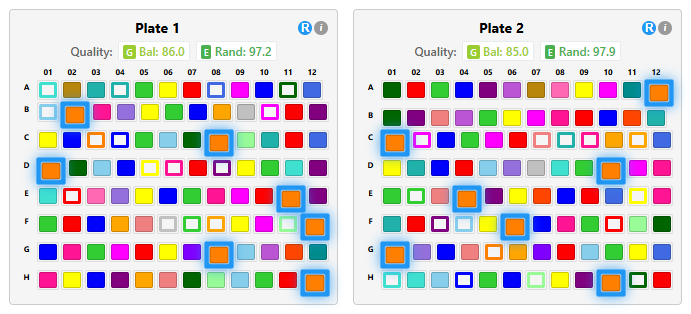
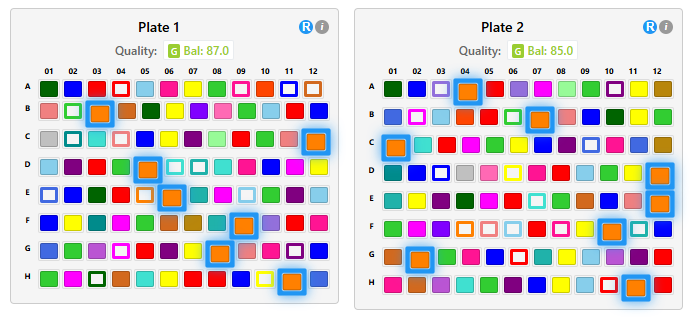
Updated doc.

diff --git a/docs/block_randomization_updates.md b/docs/block_randomization_updates.md
@@ -1,7 +1,7 @@
 # Octopus Block Randomization - Feature Updates
----
+<!-- ---
 ## _Sample placement algorithm and randomization score calculation are being updated.  Please check back later_ ##
----
+--- -->
 ## Overview
 
 This document describes the enhancements made to the Octopus Block Randomization app for distributing samples across plates.
@@ -27,14 +27,10 @@ This document describes the enhancements made to the Octopus Block Randomization
   - [Global Re-randomization](#global-re-randomization-re-randomize-button)
   - [Individual Plate Re-randomization](#individual-plate-re-randomization-r-button)
   - [Quality Score Updates](#quality-score-updates)
-- [New Balanced Randomization Algorithms](#new-balanced-randomization-algorithms)
+- [New Balanced Randomization Algorithm](#new-balanced-randomization-algorithms)
   - [Balanced Block Randomization](#balanced-block-randomization)
-  - [Balanced Spatial Randomization](#balanced-spatial-randomization)
 - [Quality Score Calculation](#quality-score-calculation)
   - [Balance Score](#balance-score)
-  - [Randomization Score](#randomization-score)
-  - [Plate-Level Overall Score](#plate-level-overall-score)
-  - [Experiment-Level Scores](#experiment-level-scores)
 - [Usage](#usage)
 
 ---
@@ -70,15 +66,11 @@ The configuration form includes new options:
 ### Algorithm Selection
 Users can choose between three randomization strategies:
 
-1. **Balanced Spatial Randomization** (_New_)
-   - Proportionally distributes samples across plates
-   - Uses greedy, tolerance-based approach to minimize spatial clustering within plates
-
-2. **Balanced Block Randomization** (_New_)
+1. **Balanced Block Randomization** (_New_)
    - Proportionally distributes samples across plates
    - Maintains balance within plate rows
 
-3. **Greedy Algorithm** (_Legacy_)
+2. **Greedy Algorithm** (_Legacy_)
    - Original algorithm implementation
    - Places samples iteratively with tolerance-based placement
 
@@ -86,12 +78,12 @@ Users can choose between three randomization strategies:
 - Comma-separated list of labels (e.g., "Control, QC, Reference")
 - Covariate groups containing these labels receive priority in color assignment - brighter colors assigned to make them more recognizable.
 
-### Plate Dimensions (_only available for the Balanced Block / Spatial Randomization algorithm_)
+### Plate Dimensions (_only available for the Balanced Block Randomization algorithm_)
 - **Rows**: Configurable from 1-16 (default: 8)
 - **Columns**: Configurable from 1-24 (default: 12)
 - **Display**: Shows calculated plate capacity (rows × columns)
 
-### Empty Cell Distribution (_only available for the Balanced Block / Spatial Randomization algorithm_)
+### Empty Cell Distribution (_only available for the Balanced Block Randomization algorithm_)
 Option to control how empty cells / wells are handled when sample count < total capacity:
 
 - **Keep empty cells in last plate** (default checked): All empty cells are assigned to the final plate
@@ -156,19 +148,12 @@ The summary panel provides an overview of all unique covariate groups.
 
 ## 5. Quality Metrics
 
-Quality assement includes scores that evaluates the balance and randomization quality of plate assignments. Quality scores are calculated automatically and updated in real-time as users make changes. The following scores are calculated:
-
 #### __Balance Score__ (0-100)
 - **Purpose**: The balance score evaluates whether each plate contains a representative sample of the overall population based on selected covariates
 - **Calculation**: Based on relative deviation from expected covariate group proportions
 - **Weighting**: Larger covariate groups have more influence on the score
 - **Real-time**: Updates when all plates or single plates are re-randomized, and when samples are moved between or within plates
 
-#### __Randomization Score__ (0-100)
-- **Purpose**: Measures spatial clustering and randomness of sample placement
-- **Calculation**: Analyzes neighbor relationships to detect clustering patterns
-- **Method**: Counts samples from different covariate groups among spatial neighbors
-- **Real-time**: Updates when samples are repositioned on plates
 
 ### Quality Score Display
 
@@ -177,20 +162,8 @@ Located in the main control panel, shows the overall score, and quality level
 
 ![Quality Button](qualityButton.png)
 
-#### __Quality Assessment Popup__
-Accessible via the quality button, provides:
-- **Experiment Summary**: Overall scores and quality level
-- **Individual Plate Scores**: Detailed breakdown for each plate
-
-![Quality Assessment Modal](QualityAssessmentModal.png)
-
-
-#### __Individual Plate Headers__
-Each plate displays:
-- **Bal**: Balance score for that specific plate
-- **Rand**: Randomization score for that specific plate
-
-![Plate Quality in Header](PlateQualityHeader.png)
+- Clicking on the quality buttons opens a popup with the balance scores for individual plates.
+- Balance score can also be seen in the individual plate headers.
 
 [↑ Back to Table of Contents](#table-of-contents)
 
@@ -213,7 +186,7 @@ Click the information icon ("i") in the header of any plate. The draggable popup
 #### Summary Statistics
 - **Capacity**: Total number of cells / wells in the plate
 - **Samples**: Number of samples actually placed in the plate
-- **Quality Scores**: Balance and randomization scores
+- **Quality Scores**: Balance score
 
 #### Covariate Distribution
 
@@ -251,7 +224,7 @@ Clicking a covariate group in the summary panel highlights (blue border; glowing
 
 ![alt text](selectedCovariateGroup.png)
 ![alt text](cellHighlighted-Plate.png)
-![alt text](selectionHighlighted-Modal.png)
+
 
 [↑ Back to Table of Contents](#table-of-contents)
 
@@ -281,7 +254,6 @@ Each plate header includes an "R" button that re-randomizes only that specific p
 
 
 #### Algorithm-Specific Behavior:
-- **Balanced Spatial Randomization**: Uses greedy, tolerance-based sample placement within a plate to minimize spatial clustering
 - **Balanced Block Randomization**: Shuffles samples within each row only (preserves balanced distribution in rows)
 - **Greedy Randomization**: Shuffles all samples across the entire plate
 
@@ -297,29 +269,16 @@ Both re-randomization methods automatically trigger:
 ---
 ---
 
-## New Balanced Randomization Algorithms
+## New Balanced Randomization Algorithm
 
-The app introduces two new algorithms: **Balanced Block Randomization** and **Balanced Spatial Randomization**. Both algorithms use the same strategy to proportionally distribute samples across plates, ensuring balanced representation of covariate groups on each plate.
 
 ### Balanced Block Randomization
-After proportional plate distribution, this algorithm:
-- Distributes samples proportionally across rows within each plate
-- Shuffle samples within each row for final randomization
-- Attempts to maintain balance at both plate and row levels
-
-### Balanced Spatial Randomization  
-After proportional plate distribution, this algorithm:
-- Uses a greedy, tolerance-based approach to place samples within each plate
-- Attempts to minimize spatial clustering by analyzing neighbor positions
-- Focuses on better spatial distribution within plates while maintaining overall plate balance
-
-#### Plate level distribution
-Both algorithms share the same approach for plate-level distribution:
+This strategy attempts to proportionally distribute samples across plates, ensuring balanced representation of covariate groups on each plate.
 
 ##### Phase 1: Proportional Placement
 - Calculates expected minimum samples per covariate group
 - Adjusts for varying plate capacities
-- Places base allocation across all plates 
+- Places base allocation across all plates
 
 ##### Phase 2A: Unplaced Groups
 - Handles covariate groups too small for Phase 1
@@ -330,7 +289,11 @@ Both algorithms share the same approach for plate-level distribution:
 - Places remaining samples from Phase 1
 - Uses prioritization strategies:
   - **Plate level**: Prioritizes full-capacity plates
-  - **Row level**: Prioritizes rows with fewer samples of the group (only for Balanced Block Randomization)
+  - **Row level**: Prioritizes rows with fewer samples of the group
+
+After proportional plate distribution, this algorithm:
+- Distributes samples proportionally across rows within each plate
+- Shuffle samples within each row for final randomization
 
 [↑ Back to Table of Contents](#table-of-contents)
 
@@ -364,33 +327,12 @@ Plate Balance Score = max(0, 100 - (Weighted Average Deviation × 100))
 
 ```
 
-### Randomization Score
-The randomization score measures spatial clustering to ensure similar samples are not grouped together on the plate.
-For each sample position:
-1. **Identify Neighbors**: All adjacent positions (8-directional: up, down, left, right, diagonals)
-2. **Compare Covariate Keys**: Check if neighbor represents a different covariate group
-3. **Count Different Neighbors**: Tally neighbors which represent different covariate groups
-3. **Calculate Ratio**: Different neighbors / Total neighbor comparisons
-4. **Scale to 0-100**: Higher percentage = better randomization
+### Randomization Score TODO
 
-#### Score Calculation
-```
-Total Comparisons = Sum of all neighbor-to-neighbor comparisons
-Different Neighbors = Count of neighbors representing different covariate groups
-
-Randomization Score = (Different Neighbors / Total Comparisons) × 100
-```
-
-### Plate-Level Overall Score
-```
-Plate Overall Score = (Balance Score + Randomization Score) / 2
-```
 
 ### Experiment-Level Scores
 ```
 Average Balance Score = Mean of all plate balance scores
-Average Randomization Score = Mean of all plate randomization scores
-Overall Experiment Score = (Average Balance + Average Randomization) / 2
 ```
 
 
